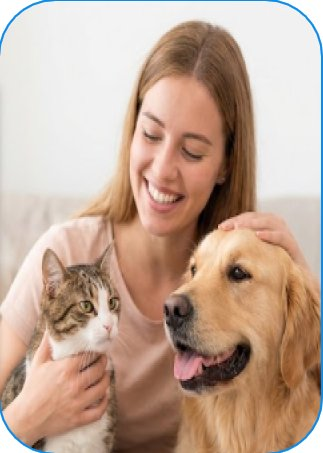
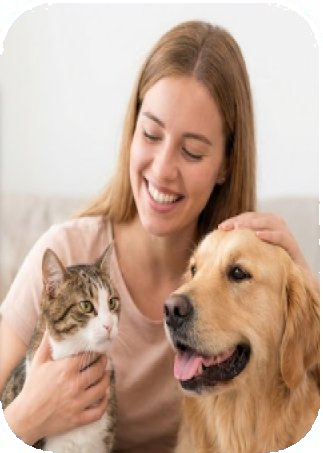
Inicio de sesion
se organiza la imagen en la parte de atras del cuadro

diff --git a/pages/login.html b/pages/login.html
@@ -93,7 +93,7 @@
 
         <!-- Imagen derecha de la chica con el perro y el gato -->
         <div class="login-photo-card">
-          <img src="../img/login-mascotas.jpg" alt="Dueña feliz con su gato y su perro" />
+          <img src="../img/login-mascotas.jpg?v=3" alt="Dueña feliz con su gato y su perro" />
         </div>
       </div>
     </div>
